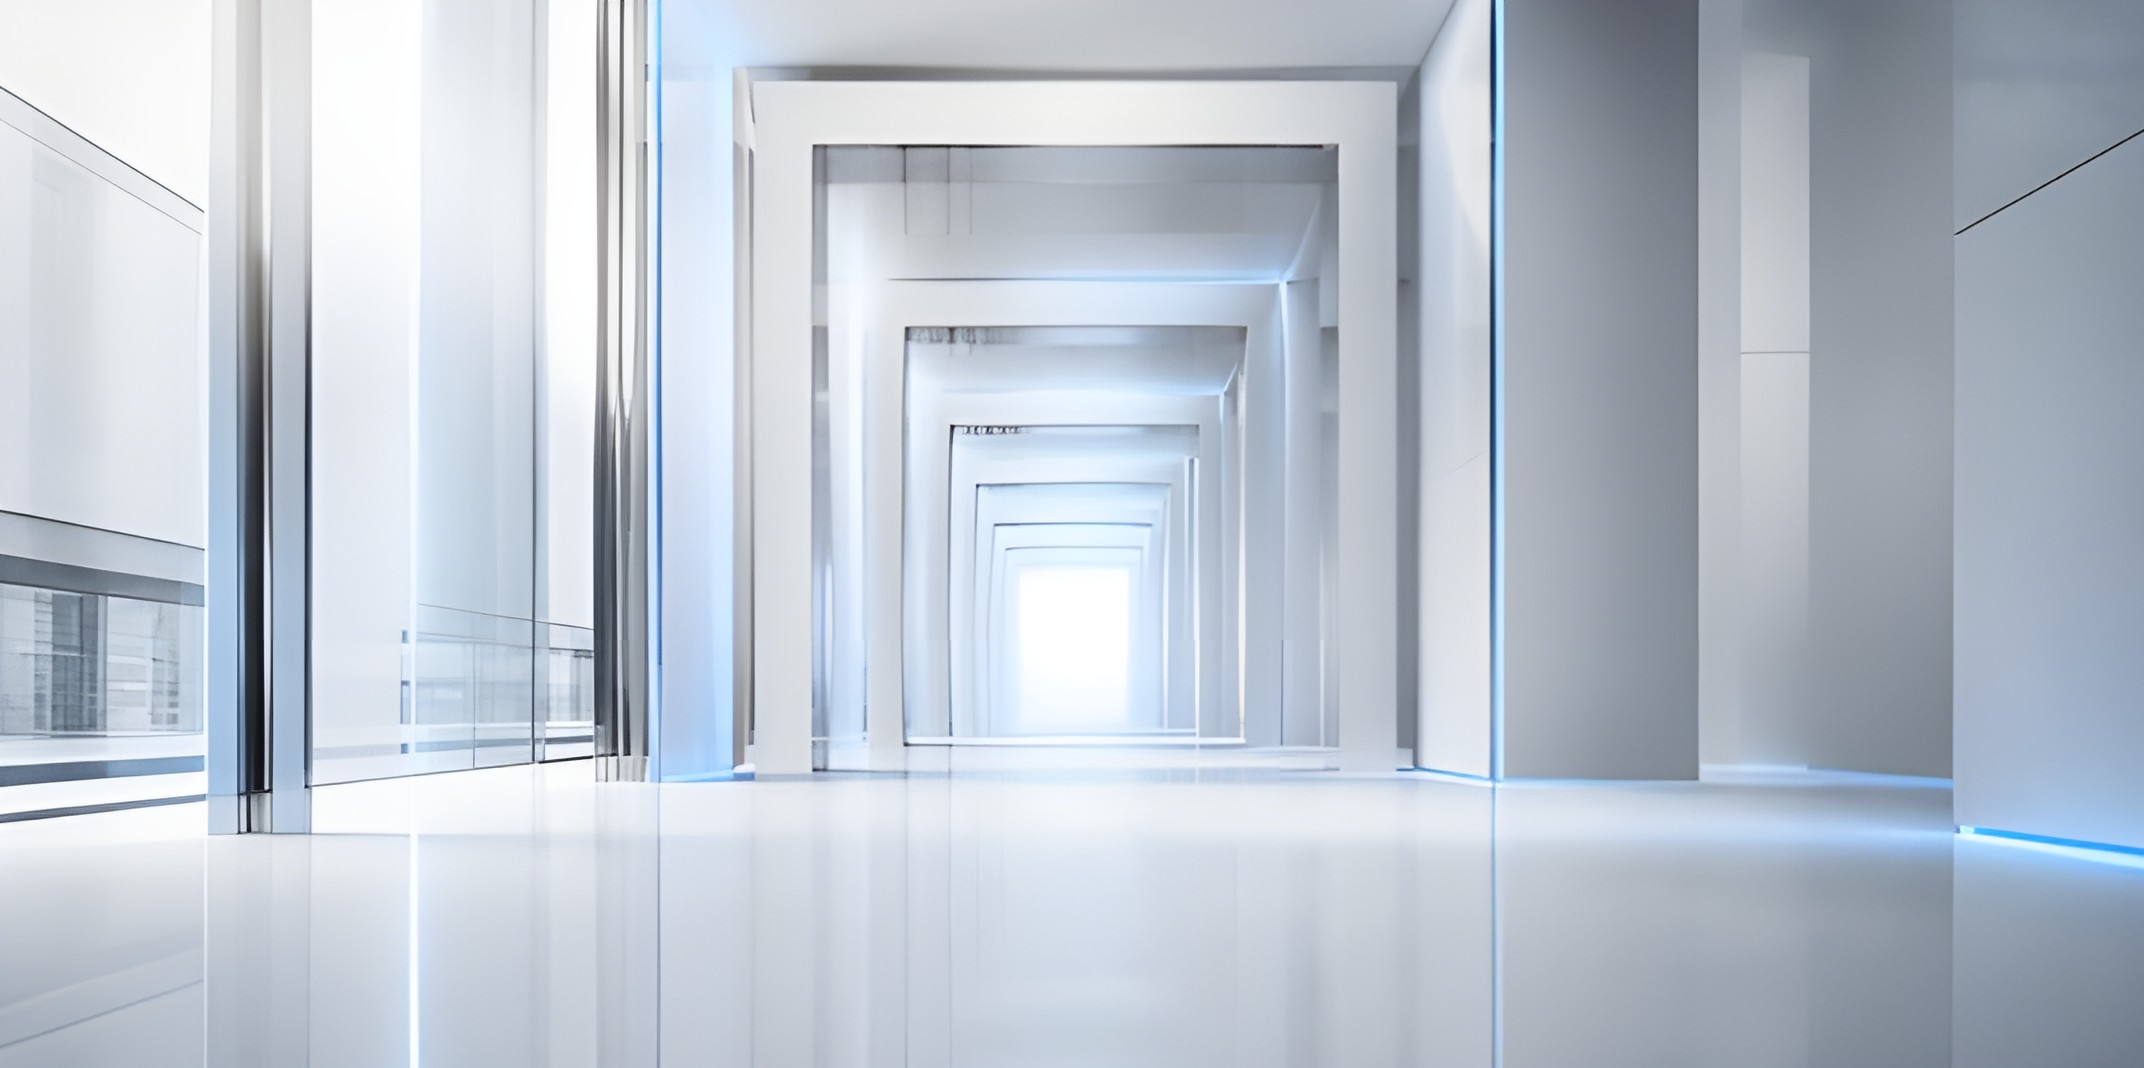
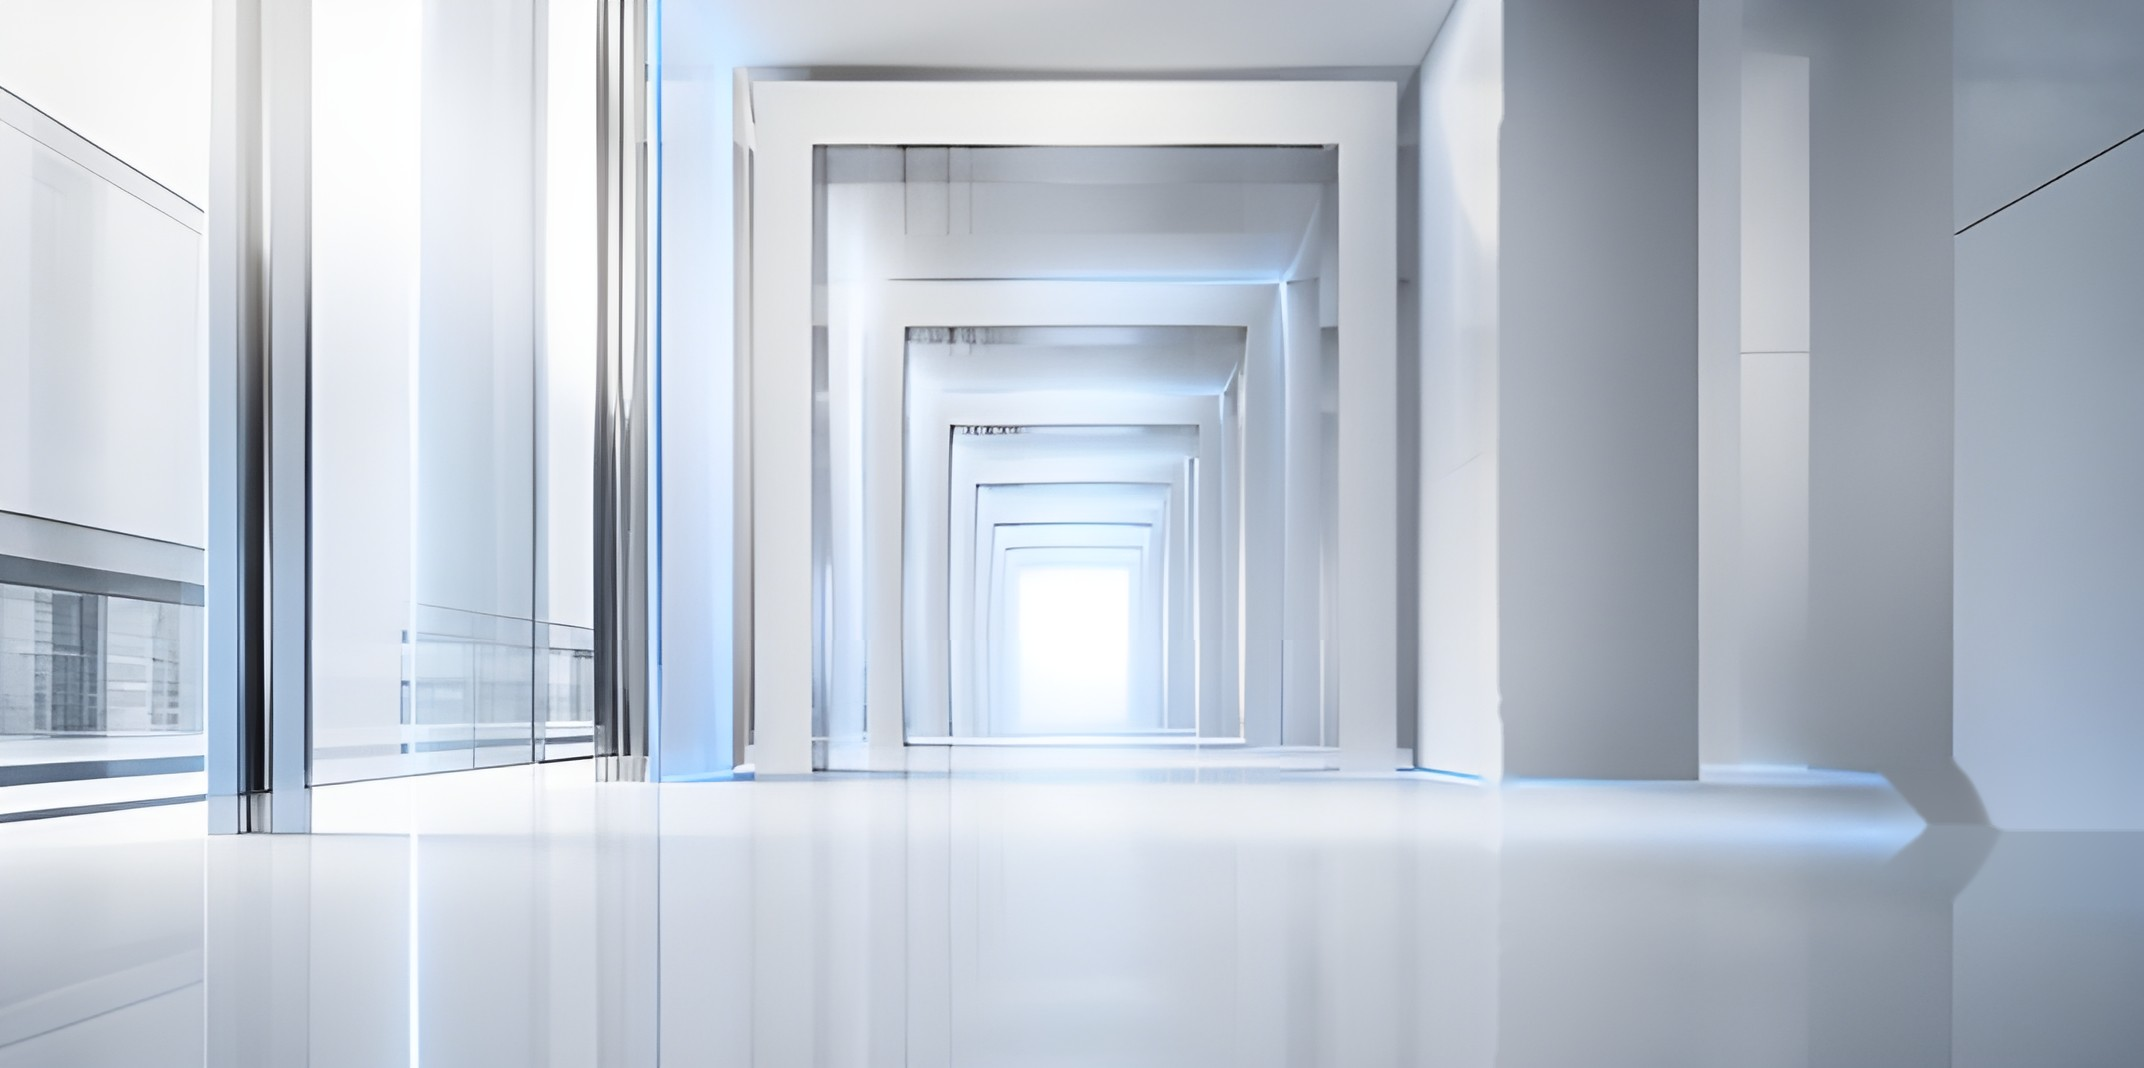
Generator preview in the steel-framed screen photo; hero QR landscape shown whole with feathered edges, 2 cm clear of the right edge; blue light line removed from the corridor background

Changed region(s): [[0.6875, 0.0, 0.7188, 0.7416], [0.875, 0.7107, 1.0, 0.8343], [0.6875, 0.927, 0.7188, 1.0]]

diff --git a/client/src/styles.css b/client/src/styles.css
@@ -2166,38 +2166,49 @@ section[id],
   margin: 0 0 14px;
 }
 
-/* ------------------------------------------------------------ the generator preview: a steel-framed screen */
+/* ------------------------------------------------------------ the generator preview: your steel-framed screen */
 
 .preview {
-  background: radial-gradient(120% 90% at 30% 0%, #2a2f38, #0b0d11 60%, #050608) !important;
-  border: 10px solid transparent !important;
-  border-radius: 26px !important;
-  background-clip: padding-box !important;
-  box-shadow:
-    0 0 0 2px #9aa1ab,
-    0 0 0 9px #c9ced5,
-    0 0 0 11px #6b727c,
-    0 30px 60px -24px rgb(0 0 0 / 0.55) !important;
   position: relative;
   overflow: hidden;
+  aspect-ratio: 420 / 445;
+  padding: 0 !important;
+  border: 0 !important;
+  border-radius: 22px !important;
+  background: url('/bg/qr-frame.jpg') center / 100% 100% no-repeat !important;
+  box-shadow: 0 30px 60px -24px rgb(0 0 0 / 0.5) !important;
 }
-/* A glossy reflection across the glass. */
+/* The photo's black screen, redrawn over its printed code so the live code can sit on it. */
+.preview::before {
+  content: '';
+  position: absolute;
+  inset: 5.6% 5.2% 5.4% 5.2%;
+  border-radius: 6%;
+  background: radial-gradient(120% 90% at 30% 0%, #16181c, #060607 55%, #020203);
+  box-shadow: inset 0 0 0 1px rgb(255 255 255 / 0.06);
+}
+/* Glossy reflection across the glass. */
 .preview::after {
   content: '';
   position: absolute;
-  inset: 0;
-  background: linear-gradient(125deg, rgb(255 255 255 / 0.12) 0%, rgb(255 255 255 / 0.03) 32%, transparent 33%);
+  inset: 5.6% 5.2% 5.4% 5.2%;
+  border-radius: 6%;
+  background: linear-gradient(125deg, rgb(255 255 255 / 0.13) 0%, rgb(255 255 255 / 0.04) 34%, transparent 35%);
   pointer-events: none;
+  z-index: 2;
 }
 .preview .qr {
-  filter: drop-shadow(0 0 18px rgb(255 255 255 / 0.12)) !important;
+  position: absolute;
+  inset: 0;
+  margin: auto;
+  width: 74% !important;
+  max-width: none !important;
+  height: auto;
+  z-index: 1;
+  filter: drop-shadow(0 0 16px rgb(255 255 255 / 0.1)) !important;
 }
 .preview .qr-placeholder {
-  width: 100%;
-  max-width: 300px;
-  aspect-ratio: 1;
-  background: url('/bg/qr-frame.jpg') center / cover;
-  border-radius: 16px;
+  display: none;
 }
 
 /* Tool screenshots are shown whole, on a soft studio backdrop. */

diff --git a/client/src/visuals/hero.css b/client/src/visuals/hero.css
@@ -434,15 +434,17 @@
 
 .hw {
   position: relative;
-  /* Reaches to the right edge of the window. */
-  width: calc(100% + clamp(28px, 5vw, 96px));
-  margin-right: calc(-1 * clamp(28px, 5vw, 96px));
+  /* Inside the page margins: about 2 cm clear of the window's right edge. */
+  width: 100%;
+  max-width: 900px;
+  justify-self: end;
+  margin-right: max(0px, calc(76px - clamp(28px, 5vw, 96px)));
   aspect-ratio: 1500 / 846;
-  /* White in the picture blends away, so the corridor shows through; cubes and blue light stay. */
+  /* The whole picture: its white melts into the page, and every edge is softly feathered, so no border shows. */
   mix-blend-mode: multiply;
-  -webkit-mask-image: linear-gradient(to right, transparent 0%, #000 16%), linear-gradient(to bottom, transparent 0%, #000 6%, #000 90%, transparent 100%);
+  -webkit-mask-image: linear-gradient(to right, transparent 0%, #000 12%, #000 94%, transparent 100%), linear-gradient(to bottom, transparent 0%, #000 10%, #000 90%, transparent 100%);
   -webkit-mask-composite: source-in;
-  mask-image: linear-gradient(to right, transparent 0%, #000 16%), linear-gradient(to bottom, transparent 0%, #000 6%, #000 90%, transparent 100%);
+  mask-image: linear-gradient(to right, transparent 0%, #000 12%, #000 94%, transparent 100%), linear-gradient(to bottom, transparent 0%, #000 10%, #000 90%, transparent 100%);
   mask-composite: intersect;
 }
 .hw-img {
@@ -492,8 +494,8 @@
 }
 @media (max-width: 900px) {
   .hw {
-    width: 100%;
     margin-right: 0;
+    justify-self: stretch;
   }
 }
 @media (prefers-reduced-motion: reduce) {
